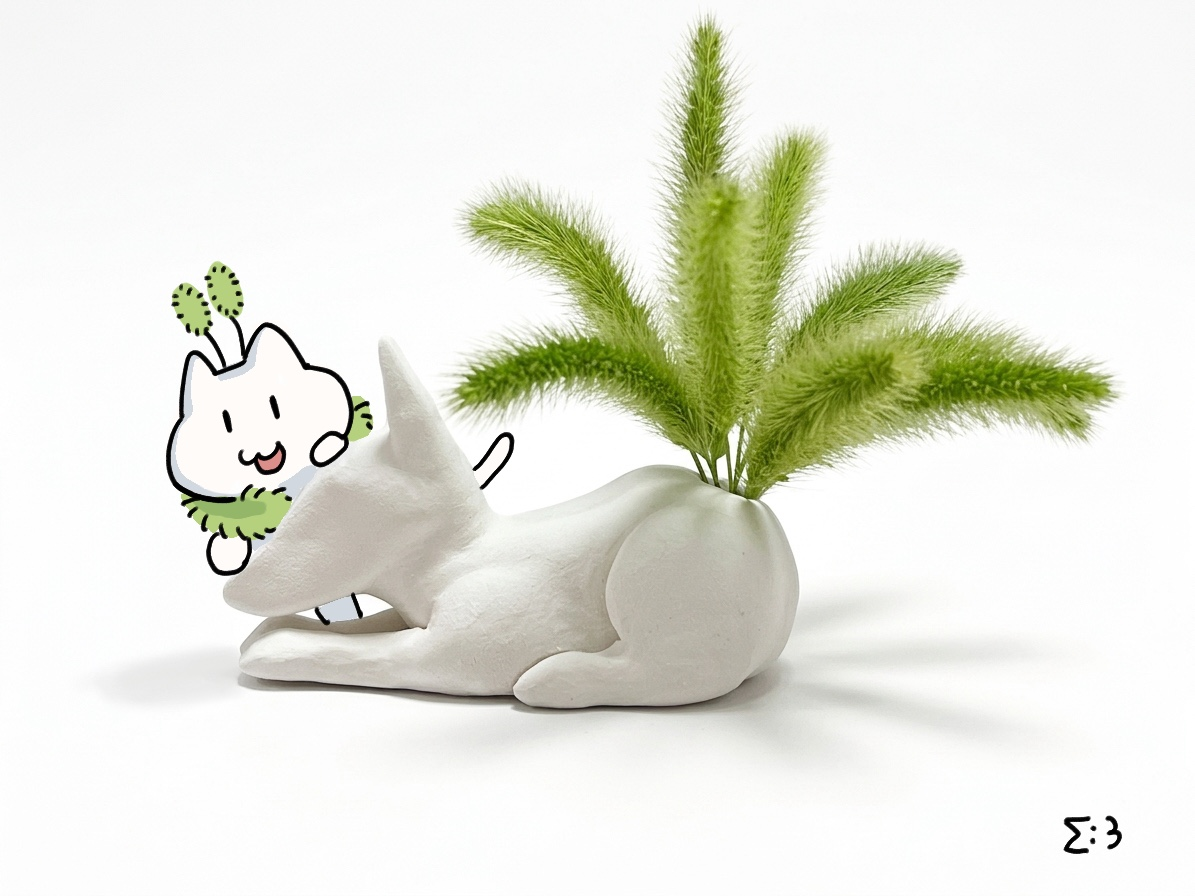
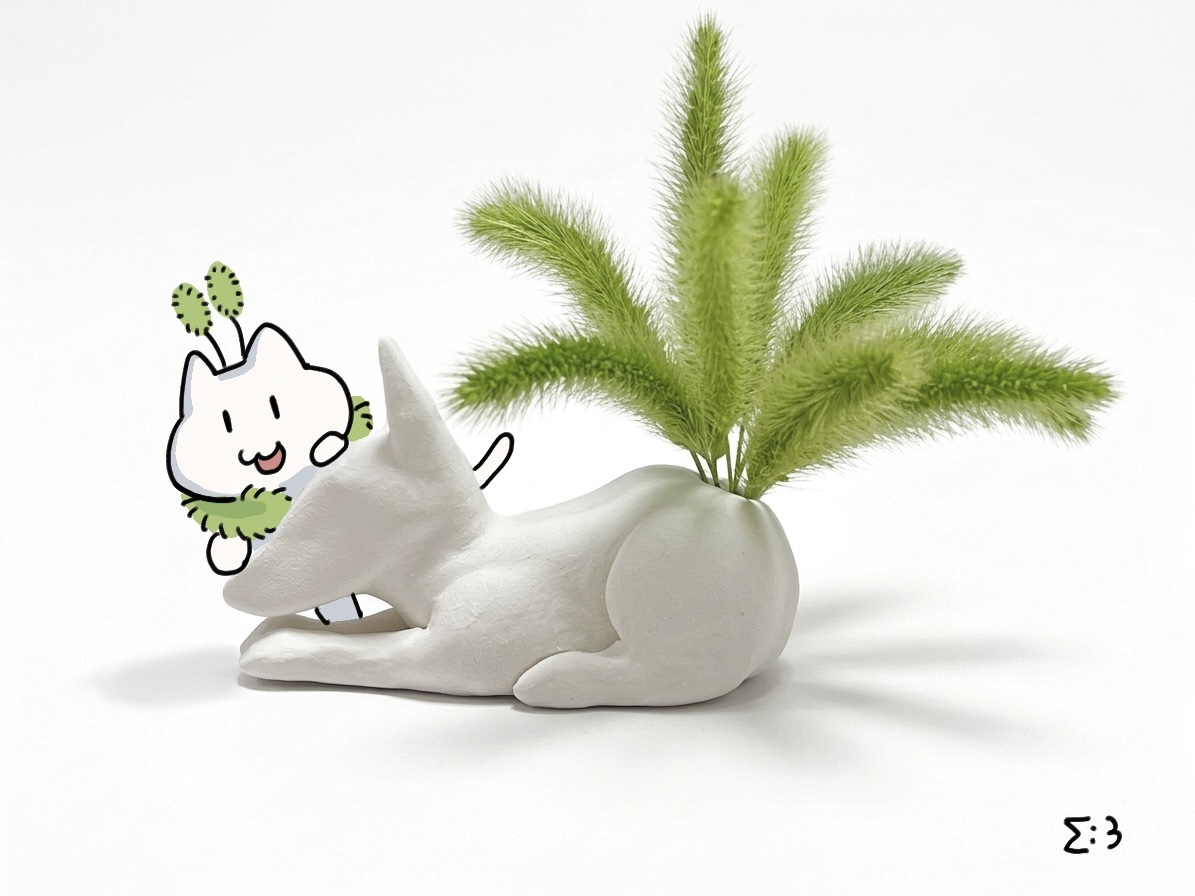
Round-cornered rooms/counter, copyright font, tighter room layout
- Rooms and ice cream counter now use roundRect (radius 20) for soft corners
- Copyright footer uses Arial font
- All 4 rooms shifted inward: left rooms x 55→130, right rooms x 875→800,
  top rooms y 80→90, bottom rooms y 650→640; exhibits, songs updated to match
- Bundle updated background.png and FoxtailVase.png

diff --git a/index.js b/index.js
@@ -417,61 +417,61 @@ let songDropdownOpen = false;
 // entered: revealed when player walks in; solid rooms are always open (ice cream counter)
 const ROOMS = [
     {
-        id: 'culinary', label: 'culinary', x: 55, y: 80, w: 470, h: 370,
-        color: '#FFF3DC', opaqueColor: '#FFD366', doorSide: 'bottom', doorGapCx: 55 + 470 * 0.78, entered: false
+        id: 'culinary', label: 'culinary', x: 130, y: 90, w: 470, h: 370,
+        color: '#FFF3DC', opaqueColor: '#FFD366', doorSide: 'bottom', doorGapCx: 130 + 470 * 0.78, entered: false
     },
     {
         id: 'iceCream', label: 'Ice Cream', x: 600, y: 200, w: 200, h: 185,
         color: '#E8F6FF', solid: true
     },
     {
-        id: 'design', label: 'design room', x: 875, y: 80, w: 470, h: 370,
-        color: '#EDFFF0', opaqueColor: '#5EFFA0', doorSide: 'bottom', doorGapCx: 875 + 470 * 0.22, entered: false
+        id: 'design', label: 'design room', x: 800, y: 90, w: 470, h: 370,
+        color: '#EDFFF0', opaqueColor: '#5EFFA0', doorSide: 'bottom', doorGapCx: 800 + 470 * 0.22, entered: false
     },
     {
-        id: 'illustration', label: 'illustration', x: 55, y: 650, w: 470, h: 370,
-        color: '#FFEDF5', opaqueColor: '#FFB0D8', doorSide: 'top', doorGapCx: 55 + 470 * 0.78, entered: false
+        id: 'illustration', label: 'illustration', x: 130, y: 640, w: 470, h: 370,
+        color: '#FFEDF5', opaqueColor: '#FFB0D8', doorSide: 'top', doorGapCx: 130 + 470 * 0.78, entered: false
     },
     {
-        id: 'poetry', label: 'poetry', x: 875, y: 650, w: 470, h: 370,
-        color: '#F5EDFF', opaqueColor: '#CCA0FF', doorSide: 'top', doorGapCx: 875 + 470 * 0.22, entered: false
+        id: 'poetry', label: 'poetry', x: 800, y: 640, w: 470, h: 370,
+        color: '#F5EDFF', opaqueColor: '#CCA0FF', doorSide: 'top', doorGapCx: 800 + 470 * 0.22, entered: false
     },
 ];
 
 // ---- Exhibit Definitions ----
 // Placed ~30px inside room walls; y≈room.y+30 for top wall, x≈room.x+30 for left wall
 const EXHIBITS = [
-    // Culinary  (x: 55–525, y: 80–450) — top wall & left wall
-    { id: 'c1', roomId: 'culinary', label: 'Tamagoyaki', x: 140, y: 115, imgSrc: 'rooms/culinary/BananaMage.png' },
-    { id: 'c2', roomId: 'culinary', label: 'Chawanmushi', x: 250, y: 115, imgSrc: 'rooms/culinary/ChatGPTDot.png' },
-    { id: 'c3', roomId: 'culinary', label: 'Matcha Roll', x: 410, y: 115, imgSrc: 'rooms/culinary/Hamwich.png' },
-    { id: 'c4', roomId: 'culinary', label: 'Mochi Daifuku', x: 90, y: 240, imgSrc: 'rooms/culinary/HotdogToothpaste.png' },
-    { id: 'c5', roomId: 'culinary', label: 'Onigiri', x: 90, y: 380, imgSrc: 'rooms/culinary/ItalyPasta.png' },
-    // Design    (x: 875–1345, y: 80–450) — top wall & right wall
-    { id: 'd1', roomId: 'design', label: 'Brand Identity', x: 960, y: 115, imgSrc: 'rooms/design/AGIHoodie.jpg' },
-    { id: 'd2', roomId: 'design', label: 'UI System', x: 1080, y: 115, imgSrc: 'rooms/design/FoxtailVase.png' },
-    { id: 'd3', roomId: 'design', label: 'Poster Series', x: 1240, y: 115, imgSrc: 'rooms/design/GoldenRatio.png' },
-    { id: 'd4', roomId: 'design', label: 'Typography', x: 1310, y: 240, imgSrc: 'rooms/design/MagrittePhoneCase.png' },
-    // Illustration (x: 55–525, y: 650–1020) — bottom wall
-    { id: 'i1', roomId: 'illustration', label: 'Forest Spirit',  x: 120, y: 988, imgSrc: 'rooms/illustration/BriefSpring.png' },
-    { id: 'i2', roomId: 'illustration', label: 'Starlight Cat',  x: 220, y: 988, imgSrc: 'rooms/illustration/ImBach.GIF' },
-    { id: 'i3', roomId: 'illustration', label: 'Ocean Dreamer',  x: 340, y: 988, imgSrc: 'rooms/illustration/Neowsletter.png' },
-    { id: 'i4', roomId: 'illustration', label: 'Paper Cranes',   x: 460, y: 988, imgSrc: 'rooms/illustration/PiecedAnimals.jpg' },
-    // Poetry    (x: 875–1345, y: 650–1020) — bottom wall
+    // Culinary  (x: 130–600, y: 90–460) — top wall & left wall
+    { id: 'c1', roomId: 'culinary', label: 'Banana Mage',          x: 215, y: 125, imgSrc: 'rooms/culinary/BananaMage.png' },
+    { id: 'c2', roomId: 'culinary', label: 'ChatGPT Dot',          x: 325, y: 125, imgSrc: 'rooms/culinary/ChatGPTDot.png' },
+    { id: 'c3', roomId: 'culinary', label: 'Hamiltonian Sandwich', x: 485, y: 125, imgSrc: 'rooms/culinary/Hamwich.png' },
+    { id: 'c4', roomId: 'culinary', label: 'Hotdog Toothpaste',    x: 165, y: 250, imgSrc: 'rooms/culinary/HotdogToothpaste.png' },
+    { id: 'c5', roomId: 'culinary', label: 'Italy Pasta',          x: 165, y: 390, imgSrc: 'rooms/culinary/ItalyPasta.png' },
+    // Design    (x: 800–1270, y: 90–460) — top wall & right wall
+    { id: 'd1', roomId: 'design', label: 'AGI Hoodie',                  x: 885,  y: 125, imgSrc: 'rooms/design/AGIHoodie.jpg' },
+    { id: 'd2', roomId: 'design', label: 'Foxtail Vase',                x: 1005, y: 125, imgSrc: 'rooms/design/FoxtailVase.png' },
+    { id: 'd3', roomId: 'design', label: 'The Continued Fraction of Phi',x: 1165, y: 125, imgSrc: 'rooms/design/GoldenRatio.png' },
+    { id: 'd4', roomId: 'design', label: 'Son of Man Phone Case',        x: 1235, y: 250, imgSrc: 'rooms/design/MagrittePhoneCase.png' },
+    // Illustration (x: 130–600, y: 640–1010) — bottom wall
+    { id: 'i1', roomId: 'illustration', label: 'Brief Spring',   x: 195, y: 978, imgSrc: 'rooms/illustration/BriefSpring.png' },
+    { id: 'i2', roomId: 'illustration', label: "I'm Bach",       x: 295, y: 978, imgSrc: 'rooms/illustration/ImBach.GIF' },
+    { id: 'i3', roomId: 'illustration', label: 'Neowsletter',    x: 415, y: 978, imgSrc: 'rooms/illustration/Neowsletter.png' },
+    { id: 'i4', roomId: 'illustration', label: 'Pieced Animals', x: 535, y: 978, imgSrc: 'rooms/illustration/PiecedAnimals.jpg' },
+    // Poetry    (x: 800–1270, y: 640–1010) — bottom wall
     {
-        id: 'p1', roomId: 'poetry', label: 'I', x: 950, y: 988, iceImgIdx: 0,
+        id: 'p1', roomId: 'poetry', label: 'I', x: 875, y: 978, iceImgIdx: 0,
         poem: "Today I shall die.\nPlease with\nDandelions,\nWith dandelions fill,\nFill them please!\nDandelions,\nWithin\nMy grave.\nA soft bed\nLaden with\nSoft dreams."
     },
     {
-        id: 'p2', roomId: 'poetry', label: 'II', x: 1070, y: 988, iceImgIdx: 1,
+        id: 'p2', roomId: 'poetry', label: 'II', x: 995, y: 978, iceImgIdx: 1,
         poem: "A face of clay.\nPinched, pulled, punched, pummeled-\nIs it but the toil of reform?\nHah!\nInborn in my body is\nA seed of ill omen.\n\nThe blaze of hope.\nScathed, scorched, singed, seared-\nHas it ushered in a pristine rebirth?\nNay!\nWhen the fruit breaks it's the life\nFlashing before one's eyes."
     },
     {
-        id: 'p3', roomId: 'poetry', label: 'III', x: 1190, y: 988, iceImgIdx: 2,
+        id: 'p3', roomId: 'poetry', label: 'III', x: 1115, y: 978, iceImgIdx: 2,
         poem: "In the subway I sat on\nA seat between\nSeats.\nI leaned forward and saw the compartments\nA tunnel of\nPeople, their waves.\nNo one was talking so the\nSilence stretched my loneliness.\nBut I realized that\nLoneliness is everyone's\nOpen secret."
     },
     {
-        id: 'p4', roomId: 'poetry', label: 'IV', x: 1310, y: 988, iceImgIdx: 3,
+        id: 'p4', roomId: 'poetry', label: 'IV', x: 1235, y: 978, iceImgIdx: 3,
         poem: "Looking up at an osmanthus tree:\nYou must love me, or\nFluttering down those sweet\nKisses,\nWhy are they chasing me?"
     },
 ];
@@ -490,9 +490,9 @@ EXHIBITS.forEach((ex, i) => { if (ex.iceImgIdx === undefined) ex.iceImgIdx = i %
 
 // ---- Song Collectibles (one per room, centred inside) ----
 const SONGS = [
-    { id: 's1', x: 290, y: 265, color: '#FFD215', collected: false, name: 'Minor Daisy Bell', file: 'music/minorDaisyBell.mp3', imgKey: 'daisy', roomId: 'culinary' },
-    { id: 's2', x: 290, y: 835, color: '#FF4215', collected: false, name: 'Lighthouse By The Sea', file: 'music/lighthouseBytheSea.mp3', imgKey: 'sea', roomId: 'illustration' },
-    { id: 's3', x: 1110, y: 265, color: '#157BFF', collected: false, name: 'A Space Odyssey', file: 'music/aSpaceOdyssey.mp3', imgKey: 'space', roomId: 'design' },
+    { id: 's1', x: 365, y: 275, color: '#FFD215', collected: false, name: 'Minor Daisy Bell', file: 'music/minorDaisyBell.mp3', imgKey: 'daisy', roomId: 'culinary' },
+    { id: 's2', x: 365, y: 825, color: '#FF4215', collected: false, name: 'Lighthouse By The Sea', file: 'music/lighthouseBytheSea.mp3', imgKey: 'sea', roomId: 'illustration' },
+    { id: 's3', x: 1035, y: 275, color: '#157BFF', collected: false, name: 'A Space Odyssey', file: 'music/aSpaceOdyssey.mp3', imgKey: 'space', roomId: 'design' },
 ];
 
 // ---- Tap tracking (for paw-icon inspect on mobile) ----
@@ -855,7 +855,7 @@ function render() {
 
     // Background image drawn 50% larger than the world, centered
     if (bgImage) {
-        const bw = WORLD_W * 1.5, bh = WORLD_H * 1.5;
+        const bw = WORLD_W * 1.05, bh = WORLD_H * 1;
         gCtx.drawImage(bgImage, -(bw - WORLD_W) / 2, -(bh - WORLD_H) / 2, bw, bh);
     } else {
         gCtx.fillStyle = '#FFFAE8';
@@ -896,14 +896,22 @@ function drawLobbyFloor() {
  * Solid rooms (ice cream counter): hatched fill + outline, no door, no label.
  * Regular rooms: opaque label overlay until entered, then lighter floor revealed.
  */
+const ROOM_RADIUS = 20; // rounded corner radius for rooms and counter
+
+/** Fill a rounded rectangle path (helper). */
+function fillRoundRect(x, y, w, h, r) {
+    gCtx.beginPath();
+    gCtx.roundRect(x, y, w, h, r);
+    gCtx.fill();
+}
+
 function drawRoom(room) {
     const { x, y, w, h, color } = room;
 
     // ── Ice cream counter (solid obstacle) ──────────────────────────────────
     if (room.solid) {
-        // Color fill only — no border
         gCtx.fillStyle = color;
-        gCtx.fillRect(x, y, w, h);
+        fillRoundRect(x, y, w, h, ROOM_RADIUS);
         return;
     }
 
@@ -914,9 +922,9 @@ function drawRoom(room) {
     const gapR = gapCx + DOOR_GAP / 2;
 
     if (!room.entered) {
-        // Opaque overlay: same hue, more saturated — no dark fill, no border
+        // Opaque overlay: same hue, more saturated — rounded corners
         gCtx.fillStyle = room.opaqueColor || color;
-        gCtx.fillRect(x, y, w, h);
+        fillRoundRect(x, y, w, h, ROOM_RADIUS);
 
         // Label in white over the saturated fill
         gCtx.fillStyle = 'rgba(255, 255, 255, 0.92)';
@@ -926,9 +934,9 @@ function drawRoom(room) {
         gCtx.fillText(room.label, x + w / 2, y + h / 2 + 9);
         gCtx.letterSpacing = '0px';
     } else {
-        // Entered: reveal floor in the room's light tint
+        // Entered: reveal floor in the room's light tint — rounded corners
         gCtx.fillStyle = color;
-        gCtx.fillRect(x, y, w, h);
+        fillRoundRect(x, y, w, h, ROOM_RADIUS);
 
         // Interior doormat at the entrance gap
         gCtx.fillStyle = 'rgba(190, 165, 140, 0.35)';
@@ -941,10 +949,8 @@ function drawRoom(room) {
     if (doorSide === 'bottom') {
         gCtx.fillRect(gapL, y + h + 2, DOOR_GAP, 12);
     } else {
-        // doorSide === 'top'
         gCtx.fillRect(gapL, y - 14, DOOR_GAP, 12);
     }
-    // No border strokes — borders are transparent
 }
 
 /**

diff --git a/index.css b/index.css
@@ -288,6 +288,7 @@ body {
     left: 0;
     width: 100%;
     text-align: center;
+    font-family: Arial, Helvetica, sans-serif;
     font-size: 11px;
     color: #333;
     padding: 16px;
